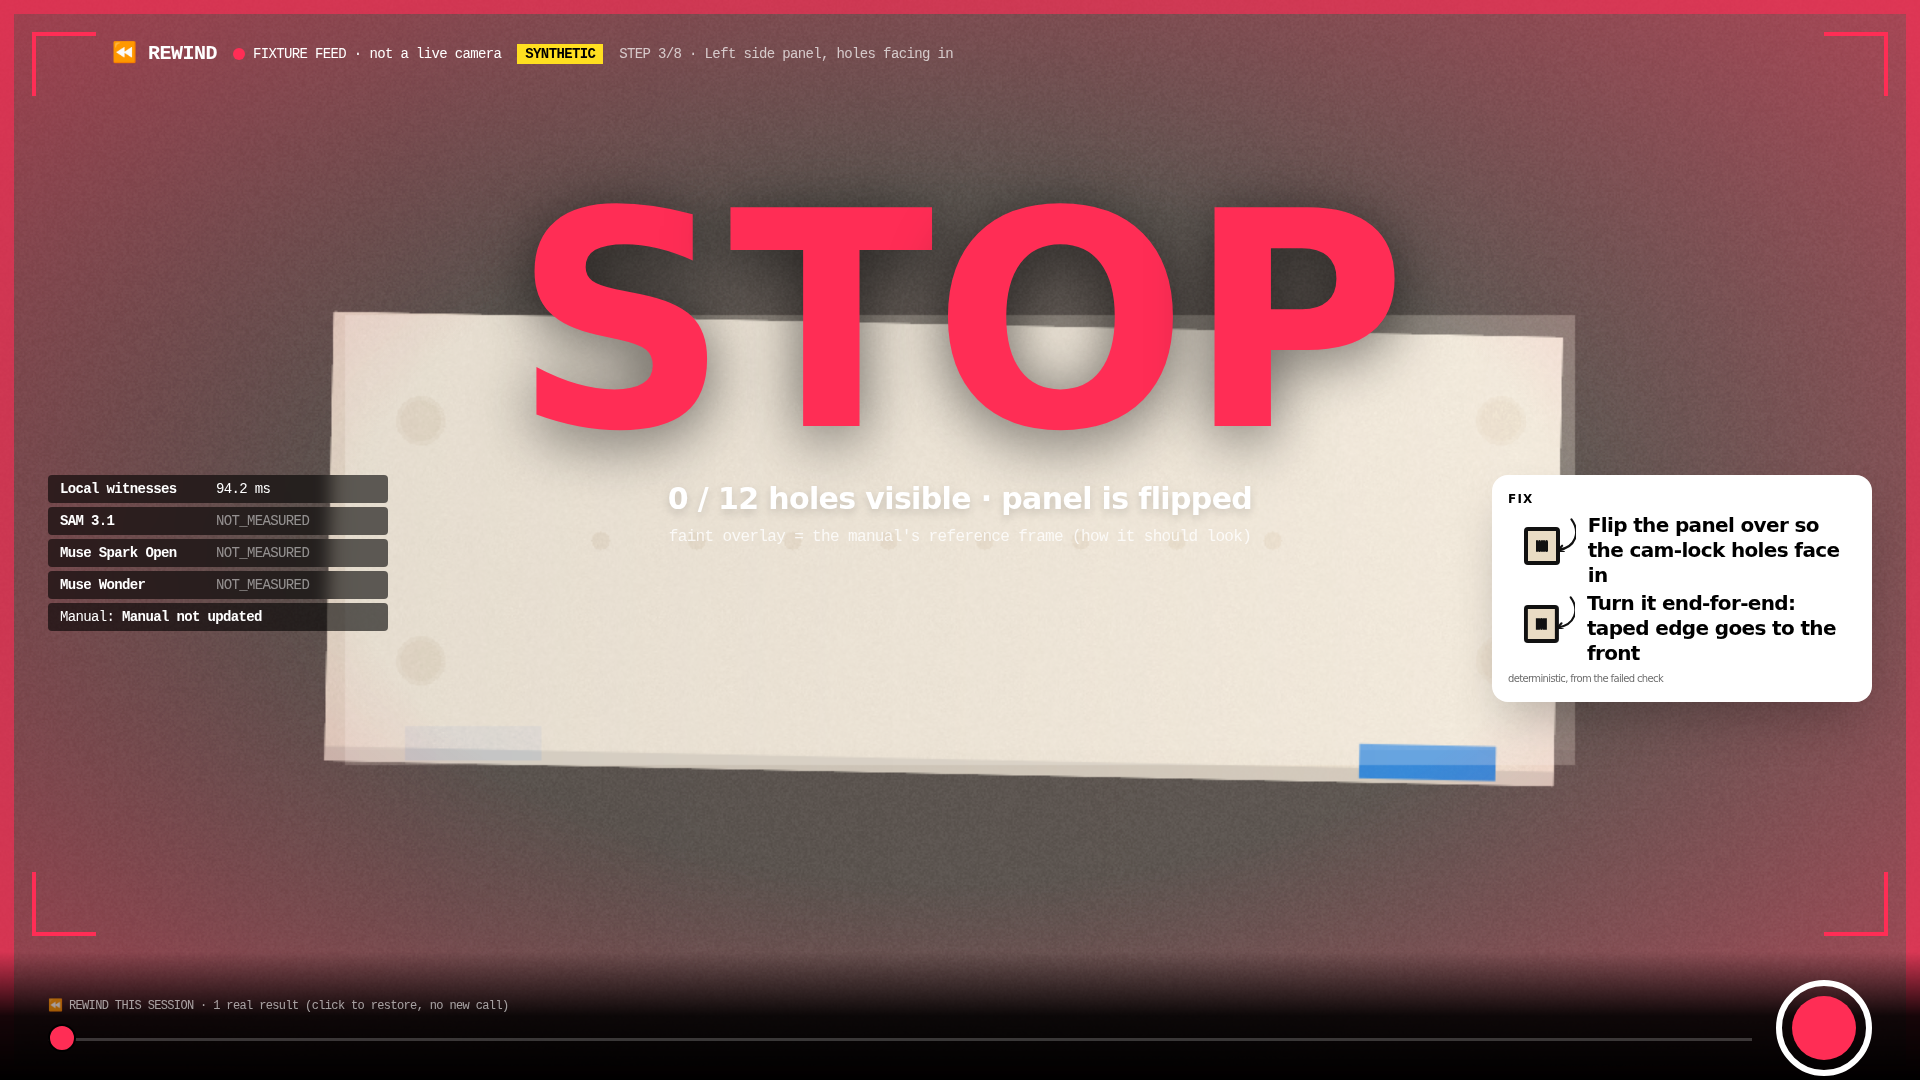
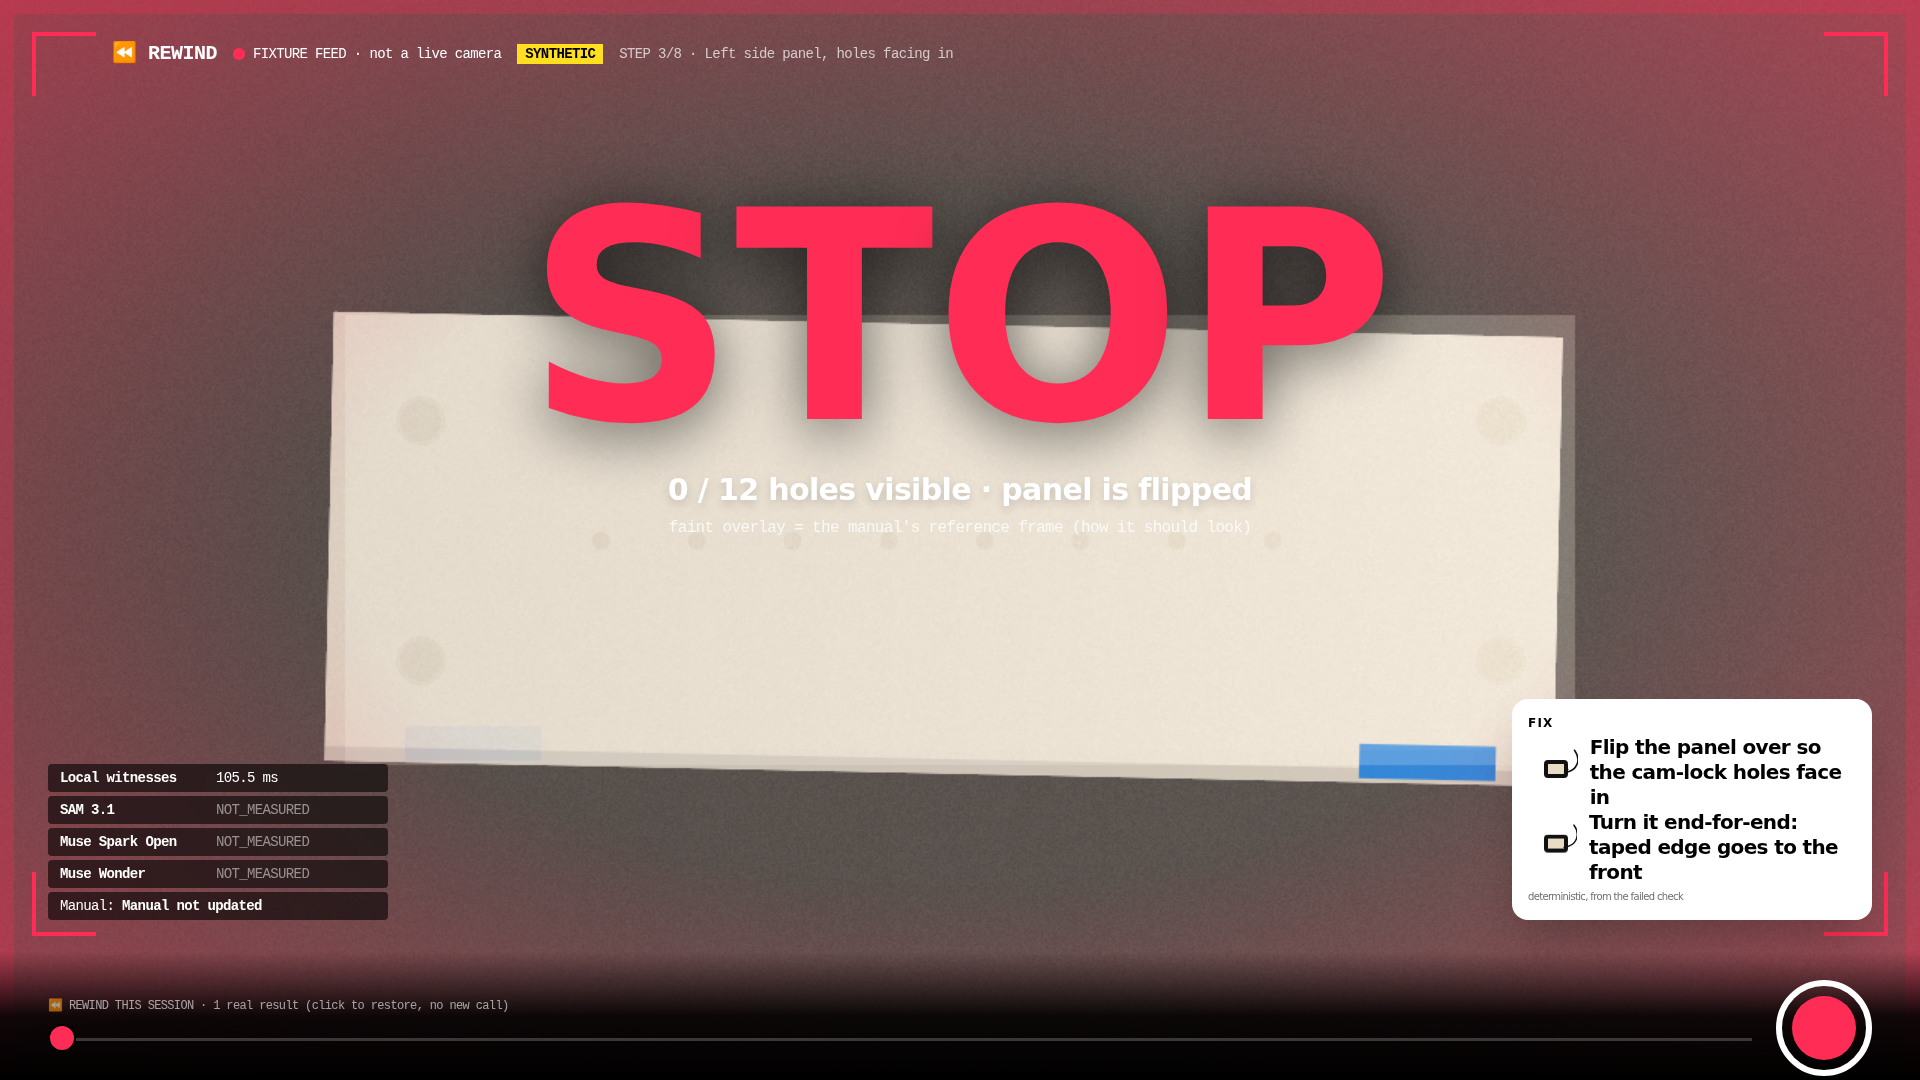
Look B: move telemetry/fix panels below verdict, scale verdict to viewport; recapture STOP at 1920 and 1280

diff --git a/frontend/src/looks/LookHud.tsx b/frontend/src/looks/LookHud.tsx
@@ -36,10 +36,10 @@ export function LookHud() {
 
       {/* kinetic verdict */}
       <div className="absolute left-0 right-0 top-[16%] text-center pointer-events-none" role="status" aria-live="assertive" data-testid="furniture-verdict">
-        <div key={word + c.history.length} className="font-black leading-none" style={{ fontSize: word.length > 6 ? 170 : 300, color: col, textShadow: '0 10px 60px rgba(0,0,0,.6)' }}>
+        <div key={word + c.history.length} className="font-black leading-none" style={{ fontSize: word.length > 6 ? 'min(170px, 17vh)' : 'min(300px, 27vh)', color: col, textShadow: '0 10px 60px rgba(0,0,0,.6)' }}>
           {word.split('').map((ch, i) => <span key={i} className="rw-letter" style={{ animationDelay: `${i * 55}ms` }}>{ch === ' ' ? '\u00a0' : ch}</span>)}
         </div>
-        {s1 && <div className="text-3xl font-bold mt-2 drop-shadow-lg">
+        {s1 && <div className="text-2xl 2xl:text-3xl font-bold mt-2 drop-shadow-lg mx-auto max-w-[min(1100px,calc(100vw-120px))]">
           {phase === 'stop' ? `${s1.hole_pattern_witness?.live_hole_count ?? 0} / ${s1.hole_pattern_witness?.reference_hole_count} holes visible · panel is flipped` : phase === 'provisional' ? (c.fixture ? 'Local checks pass · fixture mode, not model-confirmed' : 'Local checks pass · model did not confirm, not ticked') : phase === 'unknown' ? 'Not enough evidence · will not guess' : phase === 'ok' ? 'Both stages agree' : ''}
         </div>}
         {phase === 'stop' && <div className="text-base mt-2 opacity-80 font-mono-tech">faint overlay = the manual's reference frame (how it should look)</div>}
@@ -47,15 +47,15 @@ export function LookHud() {
 
       {/* fix card */}
       {hints.length > 0 && (
-        <div className="absolute right-12 top-[44%] bg-white text-black rounded-2xl p-4 w-[380px] shadow-2xl" data-testid="fix-hint">
+        <div className="absolute right-12 bottom-40 bg-white text-black rounded-2xl p-4 w-[360px] shadow-2xl" data-testid="fix-hint">
           <div className="text-xs font-black tracking-widest mb-1">FIX</div>
-          {hints.map((h) => <div key={h.kind} className="flex items-center gap-3"><FlipHint kind={h.kind} size={130} /><div className="text-xl font-bold leading-tight">{h.text}</div></div>)}
+          {hints.map((h) => <div key={h.kind} className="flex items-center gap-3"><FlipHint kind={h.kind} size={96} /><div className="text-xl font-bold leading-tight">{h.text}</div></div>)}
           <div className="text-[10px] opacity-60 mt-1">deterministic, from the failed check</div>
         </div>
       )}
 
       {/* model ticker */}
-      <div className="absolute left-12 top-[44%] space-y-1 font-mono-tech text-sm" data-testid="model-trace">
+      <div className="absolute left-12 bottom-40 space-y-1 font-mono-tech text-sm" data-testid="model-trace">
         {lanes(res).map((l) => (
           <div key={l.model} className="bg-black/60 backdrop-blur px-3 py-1 rounded flex gap-3 w-[340px]"><span className="font-bold w-36">{l.model}</span><span className={l.state === 'not_measured' ? 'opacity-50' : ''}>{l.value}</span></div>
         ))}
